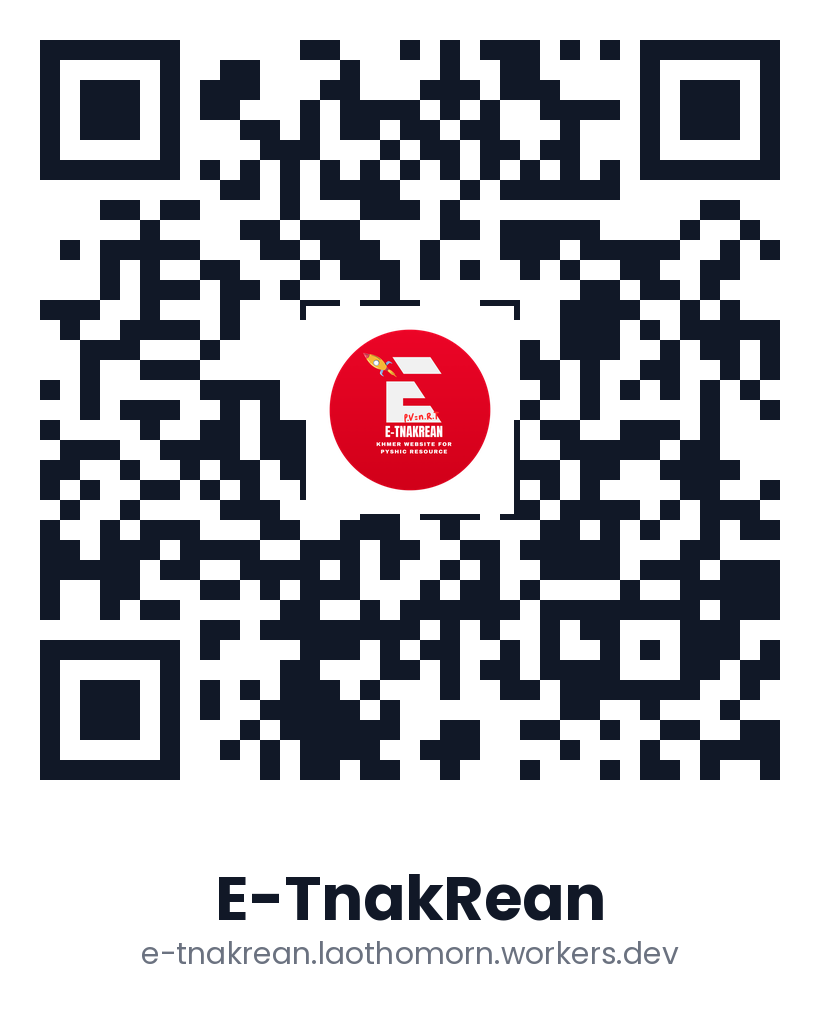
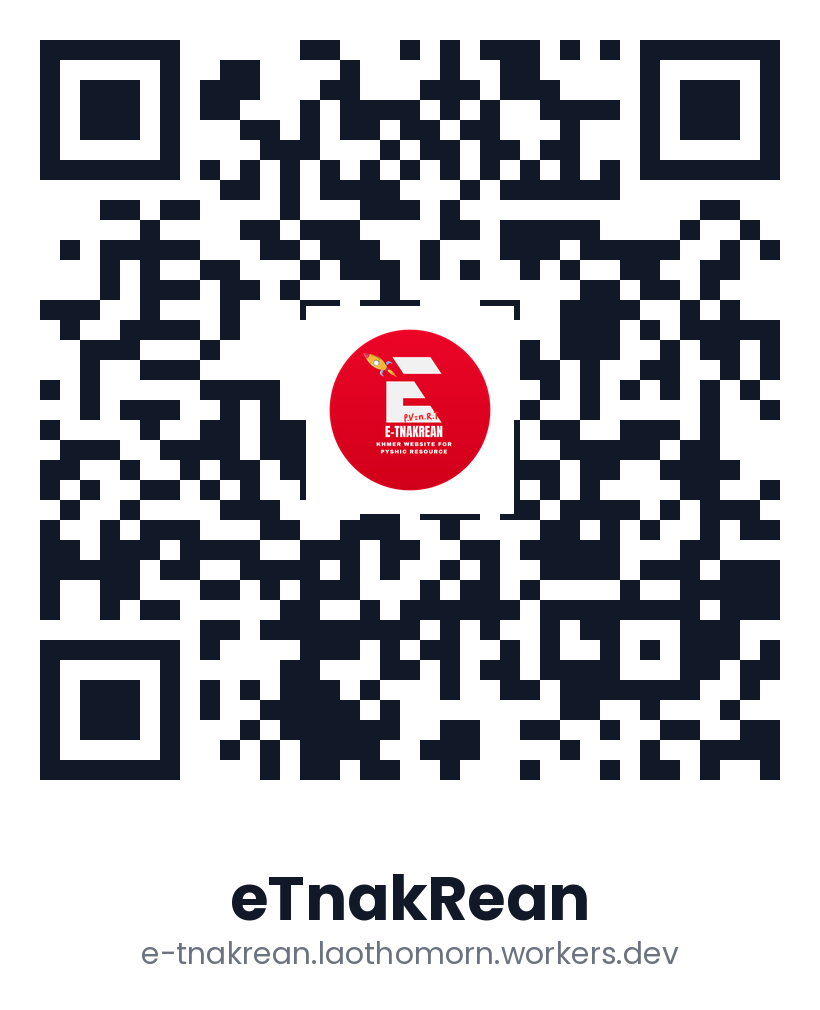
Settle on "eTnakRean", and put the name first in every title
The site called itself "eTnakRean" in the tab and manifest but
"E-TnakRean" in the social tags, structured data, about copy and legal
documents -- 35 of one, 16 of the other. Now one spelling, everywhere.

Titles were "<page> | eTnakRean", and a browser tab is narrow enough to
show roughly the first twelve characters, so every tab read "Video l..."
with the brand cut off. Flipped to "eTnakRean | <page>" so the name
survives the truncation, which is worth more than keyword position for a
site whose traffic will mostly be people who already know the name.

Shortened the home title in both languages to keep the whole thing inside
Google's ~60 character display: 66 characters before, 53 now.

og-image.png and brand/qr-code.png regenerated with the settled spelling;
the QR was re-decoded afterwards and still resolves to the live site.
Translation parity holds at 221 keys each.

Changed region(s): [[0.2439, 0.8594, 0.7317, 0.9208]]

diff --git a/tutorial-site/client/src/i18n/translations.js b/tutorial-site/client/src/i18n/translations.js
@@ -5,63 +5,63 @@ export const translations = {
     // pages so both languages stay side by side and can't drift apart.
     seo: {
       home: {
-        title: "Video lessons and PDF guides you can buy one at a time",
+        title: "Video lessons & PDF guides, one at a time",
         description:
           "Short, practical video tutorials paired with printable PDF guides, in Khmer and English. Buy only the lesson you want -- no subscription.",
       },
       videos: {
         title: "Video lessons",
         description:
-          "Browse every video lesson on E-TnakRean. Short, practical tutorials in Khmer and English, each sold on its own with its own price.",
+          "Browse every video lesson on eTnakRean. Short, practical tutorials in Khmer and English, each sold on its own with its own price.",
       },
       books: {
         title: "PDF books and guides",
         description:
-          "Browse every printable PDF guide and workbook on E-TnakRean. Preview the pages before you buy, then keep what you paid for.",
+          "Browse every printable PDF guide and workbook on eTnakRean. Preview the pages before you buy, then keep what you paid for.",
       },
       about: {
         title: "About us",
         description:
-          "E-TnakRean is a small library of practical video lessons and PDF books, sold one at a time so you only pay for what you want to learn.",
+          "eTnakRean is a small library of practical video lessons and PDF books, sold one at a time so you only pay for what you want to learn.",
       },
       login: {
         title: "Log in",
-        description: "Log in to E-TnakRean to watch the videos and read the PDF guides you have bought.",
+        description: "Log in to eTnakRean to watch the videos and read the PDF guides you have bought.",
       },
       register: {
         title: "Create an account",
         description:
-          "Create a free E-TnakRean account to buy video lessons and printable PDF guides one at a time and keep them for good.",
+          "Create a free eTnakRean account to buy video lessons and printable PDF guides one at a time and keep them for good.",
       },
       forgotPassword: {
         title: "Reset your password",
-        description: "Reset the password for your E-TnakRean account.",
+        description: "Reset the password for your eTnakRean account.",
       },
       dashboard: {
         title: "Your library",
-        description: "Everything you have bought on E-TnakRean, in one place.",
+        description: "Everything you have bought on eTnakRean, in one place.",
       },
       profile: {
         title: "Your profile",
-        description: "Update your E-TnakRean contact details.",
+        description: "Update your eTnakRean contact details.",
       },
       admin: {
         title: "Manage content",
-        description: "Admin area for E-TnakRean.",
+        description: "Admin area for eTnakRean.",
       },
       notFound: {
         title: "Page not found",
         description:
-          "That page does not exist. Browse the video lessons and printable PDF guides on E-TnakRean instead.",
+          "That page does not exist. Browse the video lessons and printable PDF guides on eTnakRean instead.",
       },
       videoDescription:
-        "Watch \u201c{title}\u201d on E-TnakRean -- a short, practical video lesson in Khmer and English.",
+        "Watch \u201c{title}\u201d on eTnakRean -- a short, practical video lesson in Khmer and English.",
       bookDescription:
-        "\u201c{title}\u201d -- a printable PDF guide from E-TnakRean. Preview the pages before you buy.",
+        "\u201c{title}\u201d -- a printable PDF guide from eTnakRean. Preview the pages before you buy.",
       videoListName: "Video lessons",
       bookListName: "PDF books and guides",
       organizationDescription:
-        "E-TnakRean sells short, practical video lessons and printable PDF guides in Khmer and English, one item at a time.",
+        "eTnakRean sells short, practical video lessons and printable PDF guides in Khmer and English, one item at a time.",
     },
     nav: {
       home: "Home",
@@ -234,7 +234,7 @@ export const translations = {
     },
     about: {
       title: "About Us",
-      lead: "E-TnakRean is a small library of practical video lessons and PDF books. Each item is sold on its own, so you only pay for what you actually want to learn.",
+      lead: "eTnakRean is a small library of practical video lessons and PDF books. Each item is sold on its own, so you only pay for what you actually want to learn.",
       sections: [
         {
           heading: "What we make",
@@ -314,63 +314,63 @@ export const translations = {
   km: {
     seo: {
       home: {
-        title: "មេរៀនវីដេអូ និងសៀវភៅ PDF ដែលអ្នកអាចទិញម្តងមួយៗ",
+        title: "មេរៀនវីដេអូ និងសៀវភៅ PDF ទិញម្តងមួយៗ",
         description:
           "វីដេអូមេរៀនខ្លីៗ និងជាក់ស្តែង ភ្ជាប់ជាមួយសៀវភៅណែនាំ PDF សម្រាប់បោះពុម្ព ជាភាសាខ្មែរ និងអង់គ្លេស។ ទិញតែមេរៀនដែលអ្នកចង់រៀន ដោយមិនចាំបាច់ជាវប្រចាំខែ។",
       },
       videos: {
         title: "មេរៀនវីដេអូ",
         description:
-          "រកមើលមេរៀនវីដេអូទាំងអស់នៅលើ E-TnakRean។ វីដេអូខ្លីៗ និងជាក់ស្តែង ជាភាសាខ្មែរ និងអង់គ្លេស ដែលនីមួយៗលក់ដោយឡែក និងមានតម្លៃផ្ទាល់ខ្លួន។",
+          "រកមើលមេរៀនវីដេអូទាំងអស់នៅលើ eTnakRean។ វីដេអូខ្លីៗ និងជាក់ស្តែង ជាភាសាខ្មែរ និងអង់គ្លេស ដែលនីមួយៗលក់ដោយឡែក និងមានតម្លៃផ្ទាល់ខ្លួន។",
       },
       books: {
         title: "សៀវភៅ និងឯកសារណែនាំ PDF",
         description:
-          "រកមើលសៀវភៅណែនាំ PDF ទាំងអស់នៅលើ E-TnakRean។ មើលសាកល្បងទំព័រមុនពេលទិញ រួចរក្សាទុកអ្វីដែលអ្នកបានបង់ថ្លៃ។",
+          "រកមើលសៀវភៅណែនាំ PDF ទាំងអស់នៅលើ eTnakRean។ មើលសាកល្បងទំព័រមុនពេលទិញ រួចរក្សាទុកអ្វីដែលអ្នកបានបង់ថ្លៃ។",
       },
       about: {
         title: "អំពីយើង",
         description:
-          "E-TnakRean គឺជាបណ្ណាល័យតូចមួយដែលមានវីដេអូមេរៀន និងសៀវភៅ PDF ជាក់ស្តែង លក់ម្តងមួយៗ ដូច្នេះអ្នកបង់ថ្លៃតែសម្រាប់អ្វីដែលអ្នកចង់រៀន។",
+          "eTnakRean គឺជាបណ្ណាល័យតូចមួយដែលមានវីដេអូមេរៀន និងសៀវភៅ PDF ជាក់ស្តែង លក់ម្តងមួយៗ ដូច្នេះអ្នកបង់ថ្លៃតែសម្រាប់អ្វីដែលអ្នកចង់រៀន។",
       },
       login: {
         title: "ចូលគណនី",
-        description: "ចូលគណនី E-TnakRean ដើម្បីមើលវីដេអូ និងអានសៀវភៅ PDF ដែលអ្នកបានទិញ។",
+        description: "ចូលគណនី eTnakRean ដើម្បីមើលវីដេអូ និងអានសៀវភៅ PDF ដែលអ្នកបានទិញ។",
       },
       register: {
         title: "បង្កើតគណនី",
         description:
-          "បង្កើតគណនី E-TnakRean ដោយឥតគិតថ្លៃ ដើម្បីទិញមេរៀនវីដេអូ និងសៀវភៅណែនាំ PDF ម្តងមួយៗ ហើយរក្សាទុកបានជារៀងរហូត។",
+          "បង្កើតគណនី eTnakRean ដោយឥតគិតថ្លៃ ដើម្បីទិញមេរៀនវីដេអូ និងសៀវភៅណែនាំ PDF ម្តងមួយៗ ហើយរក្សាទុកបានជារៀងរហូត។",
       },
       forgotPassword: {
         title: "កំណត់ពាក្យសម្ងាត់ឡើងវិញ",
-        description: "កំណត់ពាក្យសម្ងាត់សម្រាប់គណនី E-TnakRean របស់អ្នកឡើងវិញ។",
+        description: "កំណត់ពាក្យសម្ងាត់សម្រាប់គណនី eTnakRean របស់អ្នកឡើងវិញ។",
       },
       dashboard: {
         title: "បណ្ណាល័យរបស់អ្នក",
-        description: "អ្វីៗទាំងអស់ដែលអ្នកបានទិញនៅលើ E-TnakRean ក្នុងកន្លែងតែមួយ។",
+        description: "អ្វីៗទាំងអស់ដែលអ្នកបានទិញនៅលើ eTnakRean ក្នុងកន្លែងតែមួយ។",
       },
       profile: {
         title: "ប្រវត្តិរូបរបស់អ្នក",
-        description: "កែប្រែព័ត៌មានទំនាក់ទំនង E-TnakRean របស់អ្នក។",
+        description: "កែប្រែព័ត៌មានទំនាក់ទំនង eTnakRean របស់អ្នក។",
       },
       admin: {
         title: "គ្រប់គ្រងមាតិកា",
-        description: "ផ្ទាំងគ្រប់គ្រងសម្រាប់ E-TnakRean។",
+        description: "ផ្ទាំងគ្រប់គ្រងសម្រាប់ eTnakRean។",
       },
       notFound: {
         title: "រកមិនឃើញទំព័រ",
         description:
-          "ទំព័រនេះមិនមានទេ។ សូមរកមើលមេរៀនវីដេអូ និងសៀវភៅណែនាំ PDF នៅលើ E-TnakRean ជំនួសវិញ។",
+          "ទំព័រនេះមិនមានទេ។ សូមរកមើលមេរៀនវីដេអូ និងសៀវភៅណែនាំ PDF នៅលើ eTnakRean ជំនួសវិញ។",
       },
       videoDescription:
-        "មើល «{title}» នៅលើ E-TnakRean — មេរៀនវីដេអូខ្លី និងជាក់ស្តែង ជាភាសាខ្មែរ និងអង់គ្លេស។",
+        "មើល «{title}» នៅលើ eTnakRean — មេរៀនវីដេអូខ្លី និងជាក់ស្តែង ជាភាសាខ្មែរ និងអង់គ្លេស។",
       bookDescription:
-        "«{title}» — សៀវភៅណែនាំ PDF ពី E-TnakRean។ មើលសាកល្បងទំព័រមុនពេលទិញ។",
+        "«{title}» — សៀវភៅណែនាំ PDF ពី eTnakRean។ មើលសាកល្បងទំព័រមុនពេលទិញ។",
       videoListName: "មេរៀនវីដេអូ",
       bookListName: "សៀវភៅ និងឯកសារណែនាំ PDF",
       organizationDescription:
-        "E-TnakRean លក់មេរៀនវីដេអូខ្លីៗ និងជាក់ស្តែង និងសៀវភៅណែនាំ PDF សម្រាប់បោះពុម្ព ជាភាសាខ្មែរ និងអង់គ្លេស ម្តងមួយៗ។",
+        "eTnakRean លក់មេរៀនវីដេអូខ្លីៗ និងជាក់ស្តែង និងសៀវភៅណែនាំ PDF សម្រាប់បោះពុម្ព ជាភាសាខ្មែរ និងអង់គ្លេស ម្តងមួយៗ។",
     },
     nav: {
       home: "ទំព័រដើម",
@@ -543,7 +543,7 @@ export const translations = {
     },
     about: {
       title: "អំពីយើង",
-      lead: "E-TnakRean គឺជាបណ្ណាល័យតូចមួយដែលមានវីដេអូមេរៀន និងសៀវភៅ PDF ជាក់ស្តែង។ ធាតុនីមួយៗត្រូវបានលក់ដោយឡែកៗពីគ្នា ដូច្នេះអ្នកបង់ថ្លៃតែសម្រាប់អ្វីដែលអ្នកចង់រៀនប៉ុណ្ណោះ។",
+      lead: "eTnakRean គឺជាបណ្ណាល័យតូចមួយដែលមានវីដេអូមេរៀន និងសៀវភៅ PDF ជាក់ស្តែង។ ធាតុនីមួយៗត្រូវបានលក់ដោយឡែកៗពីគ្នា ដូច្នេះអ្នកបង់ថ្លៃតែសម្រាប់អ្វីដែលអ្នកចង់រៀនប៉ុណ្ណោះ។",
       sections: [
         {
           heading: "អ្វីដែលយើងបង្កើត",

diff --git a/tutorial-site/client/src/i18n/legal.js b/tutorial-site/client/src/i18n/legal.js
@@ -9,7 +9,7 @@ export const legal = {
     terms: {
       title: "Terms of Service",
       intro:
-        "These terms apply to everyone who uses E-TnakRean. By creating an account or buying anything on this site, you agree to them.",
+        "These terms apply to everyone who uses eTnakRean. By creating an account or buying anything on this site, you agree to them.",
       sections: [
         {
           heading: "Who runs this site",
@@ -49,7 +49,7 @@ export const legal = {
     privacy: {
       title: "Privacy Policy",
       intro:
-        "This page explains what personal information E-TnakRean collects, why, and who else sees it.",
+        "This page explains what personal information eTnakRean collects, why, and who else sees it.",
       sections: [
         {
           heading: "What we collect",
@@ -93,7 +93,7 @@ export const legal = {
     refund: {
       title: "Refund Policy",
       intro:
-        "Videos and books on E-TnakRean are digital products that you can open immediately after paying, so refunds work a little differently from physical goods.",
+        "Videos and books on eTnakRean are digital products that you can open immediately after paying, so refunds work a little differently from physical goods.",
       sections: [
         {
           heading: "Check before you buy",
@@ -127,7 +127,7 @@ export const legal = {
     terms: {
       title: "លក្ខខណ្ឌប្រើប្រាស់",
       intro:
-        "លក្ខខណ្ឌទាំងនេះអនុវត្តចំពោះអ្នកប្រើប្រាស់គ្រប់រូបនៃ E-TnakRean។ ការបង្កើតគណនី ឬការទិញនៅលើគេហទំព័រនេះ មានន័យថាអ្នកយល់ព្រមតាមលក្ខខណ្ឌទាំងនេះ។",
+        "លក្ខខណ្ឌទាំងនេះអនុវត្តចំពោះអ្នកប្រើប្រាស់គ្រប់រូបនៃ eTnakRean។ ការបង្កើតគណនី ឬការទិញនៅលើគេហទំព័រនេះ មានន័យថាអ្នកយល់ព្រមតាមលក្ខខណ្ឌទាំងនេះ។",
       sections: [
         {
           heading: "អ្នកគ្រប់គ្រងគេហទំព័រ",
@@ -167,7 +167,7 @@ export const legal = {
     privacy: {
       title: "គោលការណ៍ភាពឯកជន",
       intro:
-        "ទំព័រនេះពន្យល់ពីព័ត៌មានផ្ទាល់ខ្លួនដែល E-TnakRean ប្រមូល ហេតុអ្វី និងអ្នកណាខ្លះដែលឃើញវា។",
+        "ទំព័រនេះពន្យល់ពីព័ត៌មានផ្ទាល់ខ្លួនដែល eTnakRean ប្រមូល ហេតុអ្វី និងអ្នកណាខ្លះដែលឃើញវា។",
       sections: [
         {
           heading: "ព័ត៌មានដែលយើងប្រមូល",
@@ -211,7 +211,7 @@ export const legal = {
     refund: {
       title: "គោលការណ៍សងប្រាក់វិញ",
       intro:
-        "វីដេអូ និងសៀវភៅនៅលើ E-TnakRean ជាផលិតផលឌីជីថល ដែលអ្នកអាចបើកមើលភ្លាមៗបន្ទាប់ពីបង់ប្រាក់ ដូច្នេះការសងប្រាក់វិញខុសពីទំនិញធម្មតាបន្តិច។",
+        "វីដេអូ និងសៀវភៅនៅលើ eTnakRean ជាផលិតផលឌីជីថល ដែលអ្នកអាចបើកមើលភ្លាមៗបន្ទាប់ពីបង់ប្រាក់ ដូច្នេះការសងប្រាក់វិញខុសពីទំនិញធម្មតាបន្តិច។",
       sections: [
         {
           heading: "សូមពិនិត្យមុនទិញ",

diff --git a/tutorial-site/client/src/components/PaymentModal.jsx b/tutorial-site/client/src/components/PaymentModal.jsx
@@ -3,14 +3,17 @@ import { X } from "lucide-react";
 import { api } from "../api/client.js";
 import { useLanguage } from "../context/LanguageContext.jsx";
 
-// How long the QR screen sits there before we admit it's taking a while and
-// offer a manual escape hatch. Not a failure -- ABA's own confirmation can
-// genuinely take a minute or two -- just long enough that a first-time buyer
-// staring at an unmoving screen starts to wonder if anything is happening.
 const SLOW_AFTER_MS = 3 * 60 * 1000;
 const POLL_INTERVAL_MS = 3000;
 
-export default function PaymentModal({ itemType, itemId, title, amount, onClose, onPaid }) {
+export default function PaymentModal({
+  itemType,
+  itemId,
+  title,
+  amount,
+  onClose,
+  onPaid,
+}) {
   const { t } = useLanguage();
   const [state, setState] = useState("creating");
   const [payment, setPayment] = useState(null);
@@ -24,9 +27,6 @@ export default function PaymentModal({ itemType, itemId, title, amount, onClose,
   useEffect(() => {
     let cancelled = false;
 
-    // Shared by the automatic 3-second poll and the manual "Check again"
-    // button below, so there is exactly one place that decides what a status
-    // response means -- the two were never meant to disagree.
     async function checkStatus() {
       const { status } = await api.getPaymentStatus(tranIdRef.current);
       if (cancelled) return status;
@@ -104,8 +104,12 @@ export default function PaymentModal({ itemType, itemId, title, amount, onClose,
       <div className="w-full max-w-sm rounded-xl bg-white p-6 dark:bg-gray-900">
         <div className="flex items-start justify-between">
           <div>
-            <h3 className="font-semibold text-gray-900 dark:text-gray-100">{title}</h3>
-            <p className="text-sm text-gray-500 dark:text-gray-400">${amount?.toFixed?.(2) ?? amount}</p>
+            <h3 className="font-semibold text-gray-900 dark:text-gray-100">
+              {title}
+            </h3>
+            <p className="text-sm text-gray-500 dark:text-gray-400">
+              ${amount?.toFixed?.(2) ?? amount}
+            </p>
           </div>
           <button
             type="button"
@@ -119,7 +123,9 @@ export default function PaymentModal({ itemType, itemId, title, amount, onClose,
 
         <div className="mt-4 flex flex-col items-center">
           {state === "creating" && (
-            <p className="py-10 text-sm text-gray-500 dark:text-gray-400">{t.payment.settingUp}</p>
+            <p className="py-10 text-sm text-gray-500 dark:text-gray-400">
+              {t.payment.settingUp}
+            </p>
           )}
 
           {state === "waiting" && payment && (
@@ -152,7 +158,9 @@ export default function PaymentModal({ itemType, itemId, title, amount, onClose,
                       disabled={manualChecking}
                       className="flex-1 rounded-lg bg-red-600 px-3 py-2 text-sm font-semibold text-white hover:bg-red-700 disabled:opacity-60"
                     >
-                      {manualChecking ? t.payment.checking : t.payment.checkAgain}
+                      {manualChecking
+                        ? t.payment.checking
+                        : t.payment.checkAgain}
                     </button>
                     <button
                       type="button"

diff --git a/tutorial-site/client/index.html b/tutorial-site/client/index.html
@@ -2,7 +2,9 @@
 <html lang="en">
   <head>
     <meta charset="UTF-8" />
+
     <meta name="viewport" content="width=device-width, initial-scale=1.0" />
+
     <title>eTnakRean | Learn Anytime, Anywhere</title>
 
     <meta
@@ -13,6 +15,7 @@
     <link rel="icon" type="image/x-icon" href="/favicon.ico" />
     <link rel="icon" type="image/png" sizes="32x32" href="/favicon-32x32.png" />
     <link rel="icon" type="image/png" sizes="16x16" href="/favicon-16x16.png" />
+
     <link rel="apple-touch-icon" sizes="180x180" href="/apple-touch-icon.png" />
 
     <link rel="manifest" href="/manifest.webmanifest" />
@@ -22,16 +25,17 @@
       content="black-translucent"
     />
     <meta name="apple-mobile-web-app-title" content="eTnakRean" />
-    <meta name="theme-color" content="#dc2626" />
 
     <meta
       name="description"
-      content="E-TnakRean is an online learning platform offering high-quality courses, expert instructors, and flexible learning."
+      content="eTnakRean is an online learning platform offering high-quality courses, expert instructors, and flexible learning.comprehensive courses, expert instructors, and flexible learning options. Join our community of learners and start your journey today.Khmer and English. Buy only what you want to learn. "
     />
 
+    <meta name="theme-color" content="#dc2626" />
+
     <meta property="og:type" content="website" />
-    <meta property="og:site_name" content="E-TnakRean" />
-    <meta property="og:title" content="E-TnakRean | Learn Anytime, Anywhere" />
+    <meta property="og:site_name" content="eTnakRean" />
+    <meta property="og:title" content="eTnakRean | Learn Anytime, Anywhere" />
     <meta
       property="og:description"
       content="Short, practical video tutorials paired with printable PDF guides, in Khmer and English. Buy only what you want to learn."
@@ -45,7 +49,7 @@
     <meta property="og:locale:alternate" content="km_KH" />
 
     <meta name="twitter:card" content="summary_large_image" />
-    <meta name="twitter:title" content="E-TnakRean | Learn Anytime, Anywhere" />
+    <meta name="twitter:title" content="eTnakRean | Learn Anytime, Anywhere" />
     <meta
       name="twitter:description"
       content="Short, practical video tutorials paired with printable PDF guides, in Khmer and English."

diff --git a/tutorial-site/client/src/components/Seo.jsx b/tutorial-site/client/src/components/Seo.jsx
@@ -98,7 +98,10 @@ export default function Seo({
 
   useEffect(() => {
     const canonical = `${SITE_URL}${pathFor(route, lang)}`;
-    const fullTitle = title ? `${title} | ${SITE_NAME}` : `${SITE_NAME} | Learn Anytime, Anywhere`;
+    // Name first. A browser tab is narrow enough that it usually shows only
+    // the first ~12 characters, so a page-first title left every tab reading
+    // "Video l..." with the brand cut off entirely.
+    const fullTitle = title ? `${SITE_NAME} | ${title}` : `${SITE_NAME} | Learn Anytime, Anywhere`;
     const desc = clamp(description);
     const img = absoluteUrl(image || SITE_IMAGE);
 

diff --git a/tutorial-site/client/src/config/site.js b/tutorial-site/client/src/config/site.js
@@ -11,7 +11,7 @@ export const SITE_URL = (
   import.meta.env?.VITE_SITE_URL || "https://e-tnakrean.laothomorn.workers.dev"
 ).replace(/\/+$/, "");
 
-export const SITE_NAME = "E-TnakRean";
+export const SITE_NAME = "eTnakRean";
 
 // The picture Facebook, Telegram and Messenger show on a shared link.
 // 1200x630 is the shape they crop to -- the square logo.png used to be
